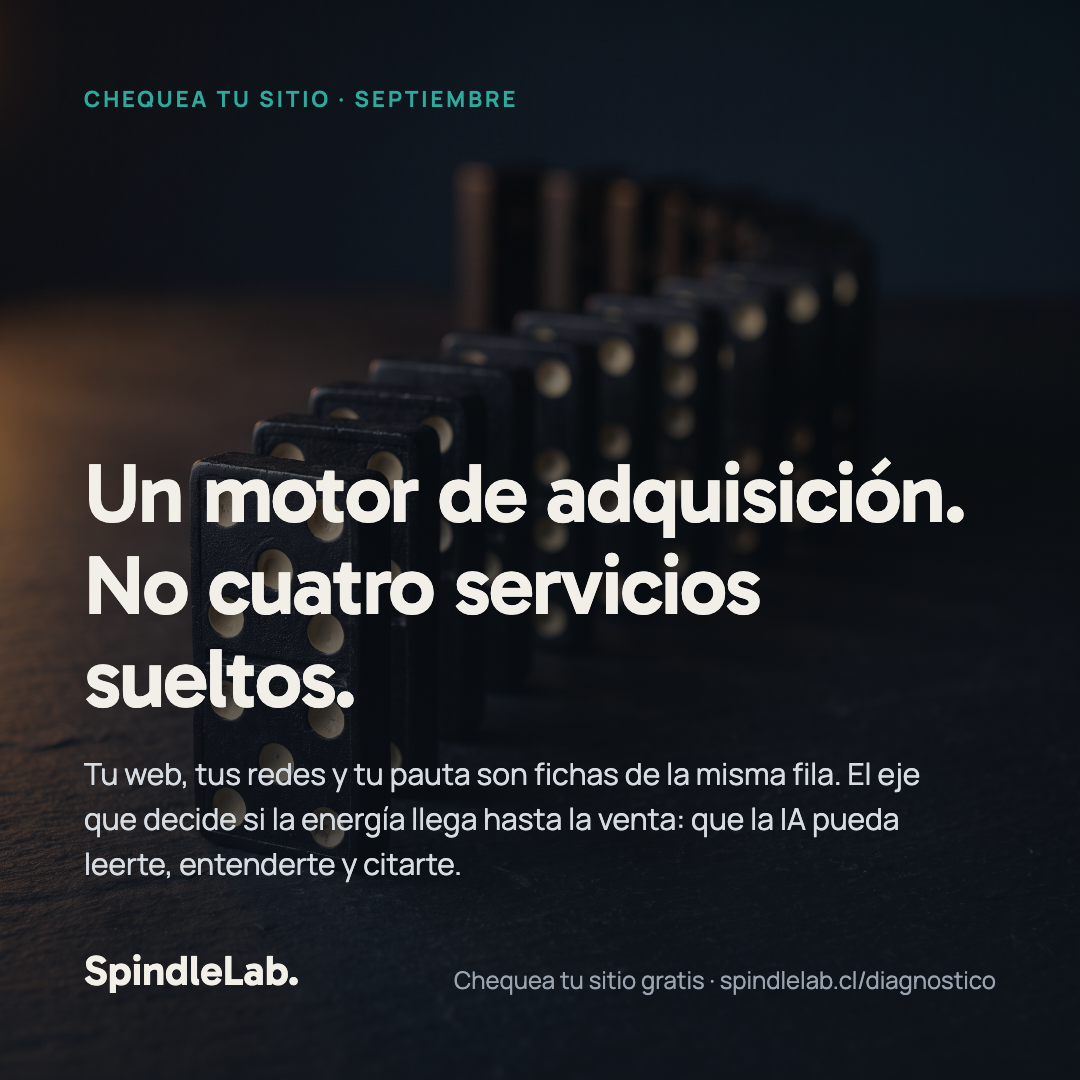
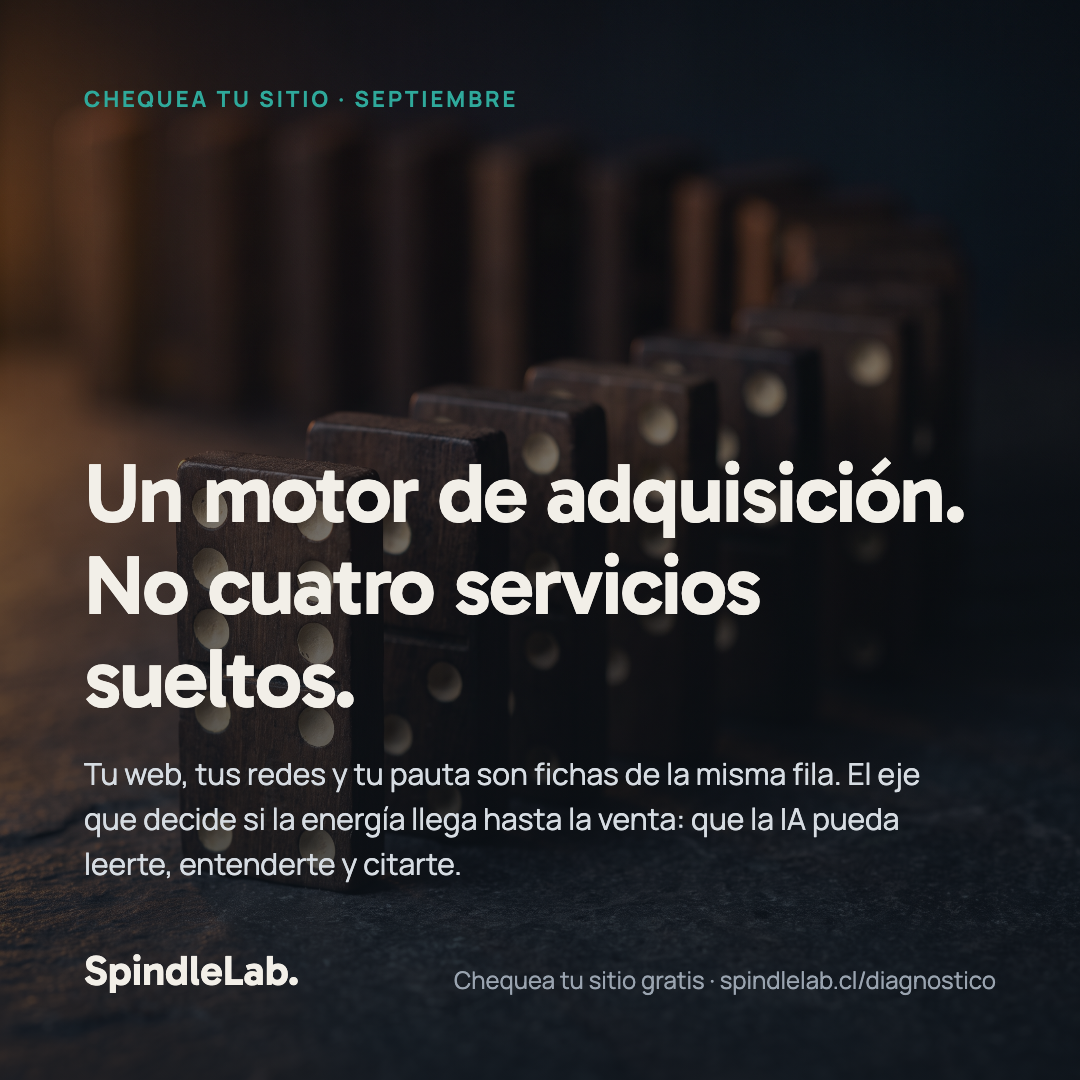
CIERRE de la escena del domino (decision de Ramon: basta de creditos a la tragamonedas): HOY sale la ESTATICA re-renderizada con la imagen de fichas variadas (defecto todas-5|5 corregido gratis); los 6 clips descartados y renombrados; la escena se graba con domino real el finde. REGLA DURA al canon 

diff --git a/marketing/redes/2026-09-septiembre/02-mie-motor-circuito/pieza.html b/marketing/redes/2026-09-septiembre/02-mie-motor-circuito/pieza.html
@@ -4,7 +4,7 @@
 * { margin:0; padding:0; box-sizing:border-box; }
 html,body { width:1080px; height:1080px; overflow:hidden; font-family:'Manrope',sans-serif; }
 .post { width:1080px; height:1080px; position:relative; padding:84px; display:flex; flex-direction:column; color:#f2efe8;
-  background:linear-gradient(rgba(14,20,27,.34), rgba(14,20,27,.80)), url('domino-curva.png') center/cover, #0e141b; }
+  background:linear-gradient(rgba(14,20,27,.34), rgba(14,20,27,.80)), url('domino-curva-v2.png') center 40%/cover, #0e141b; }
 .eyebrow { font-size:22px; font-weight:700; letter-spacing:3px; text-transform:uppercase; color:#2fa99b; }
 .centro { flex:1; display:flex; flex-direction:column; justify-content:flex-end; padding-bottom:110px; }
 .tit { font-family:'Gabarito'; font-weight:600; font-size:84px; line-height:1.1; letter-spacing:-2px; }

diff --git a/marketing/redes/2026-09-septiembre/02-mie-motor-circuito/publicar.md b/marketing/redes/2026-09-septiembre/02-mie-motor-circuito/publicar.md
@@ -42,26 +42,19 @@ Comenta CIRCUITO y te mando el link del chequeo por DM. (Si prefieres directo, e
 
 ---
 
-## ✅ v3 DEFINITIVA (2-sep; video generado y verificado, OK de Ramón) — LA FICHA primero, el motor después
+## ✅ FORMATO FINAL (2-sep, madrugada): ESTÁTICA `pieza.png` — re-renderizada con fichas variadas
 
-**Crítica de Ramón (correcta):** abrir con "motor" sobre imagen de dominós confunde: la imagen
-y la primera línea deben darse la mano. Secuencia nueva: la ficha que falla (lo que se VE) →
-el motor como solución (lo que se nombra).
+**Decisión de Ramón tras 6 intentos de video en 2 modelos:** la física causal de contacto
+(ficha bota ficha) es la debilidad estructural de los modelos de video; los clips salieron con
+fuego, dirección invertida o fichas aglutinadas. TODOS descartados (renombrados en la carpeta).
+**La escena se graba con dominó real el fin de semana** (espacio entre fichas y listo): servirá
+de versión video re-publicable de esta pieza + b-roll del video del lunes.
+La estática sale HOY MIÉ 19:00 en IG; ya usa la imagen nueva de fichas variadas (el defecto
+"todas 5|5" quedó corregido). Overlay `overlay-texto-v2.png` queda listo para el montaje del
+video real. Gasto de la escena: ~26,6 créditos (quedan ~57,3); las 2 imágenes generadas sí
+quedaron como activos.
 
-**Formato:** VIDEO — **`clip-cascada.mp4`** (Seedance 1.5 Pro, 720p 1:1; la coreografía exacta
-de Ramón: dedo desde la izquierda da la inercia → 1ª bota 2ª → 2ª bota 3ª → la 3ª NO alcanza
-la 4ª → toda la fila queda de pie; cero fuego). ⚠ **Usable de 0 a ~2,8 seg** — después la
-mano vuelve a entrar a ordenar fichas: SE CORTA.
-**Montaje CapCut (5 min):**
-1. Importar `clip-cascada.mp4` → recortar en ~2,8 s (justo antes de que la mano reaparezca).
-2. Opcional que suma: velocidad 0.7x (la cascada gana drama) y/o congelar el último cuadro
-   1,5-2 s (la cadena muerta + el texto = el remate perfecto).
-3. Capa `overlay-texto-v2.png` toda la duración, pantalla completa.
-4. Exportar 1080×1080 → Metricool HOY MIÉ 19:00 como video → 1 clic en ManyChat (CIRCUITO).
-Clips descartados renombrados en la carpeta (2 Kling con fuego/dirección, 1 Seedance saca-fichas
-como alternativa).
-
-**Caption v3 (DEFINITIVA, copiar y pegar):**
+**Caption (DEFINITIVA, copiar y pegar — funciona igual con la estática):**
 
 Todas las fichas puestas: web, redes, pauta. Y la venta igual no llega.
 

diff --git a/marketing/oficina/memoria/tomas-troncal.md b/marketing/oficina/memoria/tomas-troncal.md
@@ -89,3 +89,11 @@
   Dijo tres veces que el ancla ya había salido en su LinkedIn personal y yo la reprogramé dos
   veces (jue, vie) porque nunca registré su primera confirmación. El estado que no se escribe
   no existe, y hacerle repetir estado al dueño es el peor uso posible de su tiempo.
+
+- 2026-09-02 (madrugada) — **REGLA DURA de video-IA: máximo 2 intentos por escena, y las
+  secuencias de física causal de contacto (una pieza empuja a otra) NO se piden a modelos de
+  video: se graban en la realidad.** Quemé ~26 créditos de Ramón en 6 intentos (Kling metía
+  fuego; Seedance invertía dirección o aglutinaba fichas) violando el tope de 2 que el propio
+  guion ya fijaba. Además: la verificación por tiras de fotogramas NO detecta artefactos de
+  movimiento (aglutinación entre cuadros) — un clip solo se da por bueno cuando RAMÓN lo ve en
+  movimiento. Lo que sí rinde en video-IA: atmósfera, cámara, luz (movimientos sin causalidad).

diff --git a/marketing/oficina/memoria/bruno-direccion-creativa.md b/marketing/oficina/memoria/bruno-direccion-creativa.md
@@ -127,3 +127,9 @@ Defino el "cómo se ve"; el "qué decir" es de Renata/Cata.
   del mes = carpetas por día de publicación (`DD-dia-pieza/`) con pieza + assets +
   `publicar.md`; masters del sistema en `_sistema/`; descartes/alternativas en `_reserva/`.
   Ver `2026-09-septiembre/README.md` (v3). Este es el molde para octubre.
+
+- 2026-09-02 — **Física causal de contacto = rodaje real, jamás video-IA** (6 intentos fallidos
+  lo respaldan: fuego espontáneo, dirección invertida, fichas aglutinadas). Tope de 2 intentos
+  por escena ES DURO. Video-IA solo para atmósfera/cámara/luz. Y toda pieza con objetos
+  repetidos (fichas, productos): pedir explícito variedad realista (el "todas 5|5" se coló en
+  la primera imagen).
